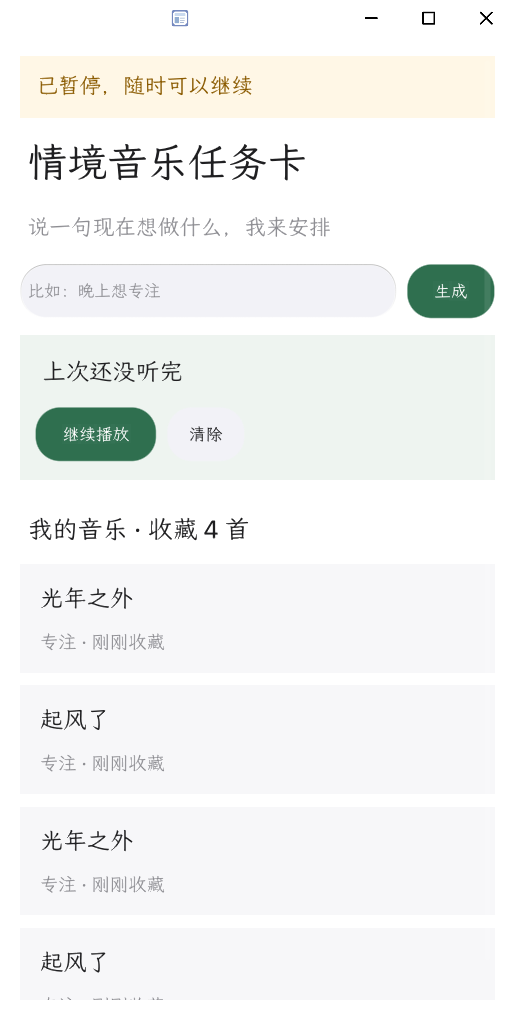
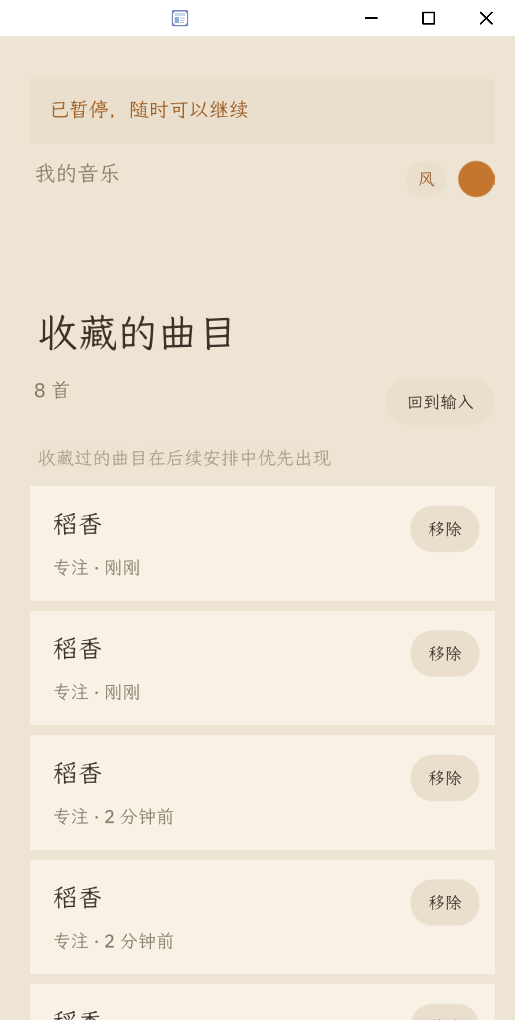
docs: 重写 README 为产品视角，补拍真实应用截图
- README 去掉 emoji 小标题，改为从产品角度叙述（这是什么 / 主要功能 / 怎么用）
- 新增演示视频、应用截图、本地运行三节，快速开始精简为最短路径
- 应用截图换成 card-host 真实渲染：输入页、任务卡、播放中（收藏两首后）、我的音乐
- 修 03-playing.png 与 01-main.png 重复、03-mine.png 为旧版 UI 的问题
- 重新 octo check 刷新 manifest 的 bundle_blake3（PASSED）

diff --git a/README.md b/README.md
@@ -1,165 +1,171 @@
 # 情境音乐任务卡（music.cue）
 
-跑在 OctoSense 上的小程序（OctoScript / Splash）。你说一句当下情境的话，它生成一张播放任务卡：
-情境 + 时长 + 渐入/稳定/收尾三段 + 每段一句理由。你点头后卡片全程跟随。
+说一句现在想做什么，得到一张分好段、写好理由的播放任务卡。
 
-**我们不做播放器，只做播放任务的组织与状态跟进。**
+运行在 [OctoSense](https://github.com/OctoSense-org/OctoSense) 上的 OctoScript / Splash 应用，
+为 GoSIM Agentic App 2026 初赛提交而作。
 
----
+## 这是什么
+
+用户打开音乐 App 时，真正在想的通常不是「听哪首歌」，而是「接下来这一段时间我打算怎么过」。
+现有产品把选什么、听多久这件事原样丢回给用户，于是大多数时候我们只是随手点开一个歌单。
+
+music.cue 把这个顺序倒过来：先说一句现在的状态，比如「晚上想专注」「早上通勤 45 分钟」，
+由它排出一张播放任务卡——场景、总时长、渐入／稳定／收尾三段，以及每一段为什么这么排。
+确认之后卡片开始计时，播放途中可以收藏、跳过、改时长，也可以存档下次接着用。
+
+产品上刻意守住了三条边界：
+
+- **不播放音乐。** 进度按三段时长本地模拟推进，界面上有明确标注。
+- **不接入版权曲库。** 曲库是内置的示例数据，用于演示卡片结构，不存储、不传输任何音频内容。
+- **不是四个 AI 进程。** 宿主当前没有 shell 真正运行多 Agent，`model.complete` 在 card-host
+  返回 no service。感知、决策、编排、守护是四个纯代码模块，由状态机按序调度，
+  决策走本地规则表；AI 分支已预留，默认关闭。
+
+## 主要功能
+
+- **情境识别**：专注、通勤、睡前、健身、休息五类场景，中英文关键词命中。时长从原话里取
+  （第一个 ≥ 5 的数字）。原话中的时间语义优先于系统时间——说「早上通勤」，夜里测也是早上桶。
+- **三段任务卡**：渐入／稳定／收尾，每段给出理由与来源曲目。时长闭合校验不通过会重排一次，
+  仍不通过则降级为单段简化卡。
+- **只问一次**：场景没识别出来时问一次「现在在做什么」，也可以点「你帮我决定」直接兜底为专注。
+  时间取系统值、环境默认室内，都不主动追问。
+- **番茄钟**：专注场景默认 25 分钟一轮，稳定段按轮切分，每 4 轮结束提示长休，可切 25 / 45 / 60。
+- **播放中微调**：改时长、切番茄档位、「换一批」重抽三段曲目（段落结构与时长保留）。
+- **偏好回流**：收藏 +1.0／次，跳过 −1.5／次；同一首跳过 2 次进黑名单；收藏过的曲目后续优先出现。
+- **续播**：中途退出会保存进度快照，下次打开提示续播，播完自动清除。
+- **卡堆**：最多存 8 张卡片，超出归档最旧的一张，可从卡堆里直接重启任意一张。
+- **我的音乐**：查看收藏过的曲目与收藏时间，可逐条移除。
+- **本周概览**：近 7 天时长柱状图、专注小时数、通勤次数、收藏数。
+- **三套视觉**：暗色沉浸／浅色温柔／编辑部排版，选择写入偏好；暗色下不同场景的氛围色相不同。
+- **全部本地**：收藏、跳过、播放历史、续播快照、事件日志写入应用私有空间，配额 16 MiB；
+  只申请 `storage` 能力，不联网、不登录（登录归宿主）。
+
+## 演示视频
+
+尚未录制。录制后命名为 `demo.mp4` 放在仓库根目录，本节用相对路径引用。
+
+## 应用截图
+
+以下均为 Windows card-host 的真实渲染截图。
+
+| 输入页 | 任务卡 |
+| --- | --- |
+| <img src="bundle/screenshots/04-idle.png" alt="输入页：一句话输入与场景快选" width="300"> | <img src="bundle/screenshots/02-confirm.png" alt="任务卡：专注 90 分钟，三段结构与每段理由" width="300"> |
+
+| 播放中 | 我的音乐 |
+| --- | --- |
+| <img src="bundle/screenshots/03-playing.png" alt="播放中：当前段落、番茄轮次与进度" width="300"> | <img src="bundle/screenshots/03-mine.png" alt="我的音乐：收藏的曲目与收藏时间，可移除" width="300"> |
 
 ## 快速开始
 
-前置：已装好 [OctoSense App Hub](https://github.com/OctoSense-org/OctoSense-App-Hub)
-并通过 `octo doctor` 校验（本项目在 Windows / card-host 环境实测通过）。
+需要 Python 3 和构建好的 OctoSense App Hub 宿主工具。三步跑起来，完整说明见[本地运行](#本地运行)：
 
-```bash
-export OCTO_HUB="<App-Hub>/target/release/hub.exe"          # Windows 上是 hub.exe
-export OCTO_CARD_HOST="<App-Hub>/target/release/card-host.exe"
-export OCTOSENSE_APP_HUB="<App-Hub>"
-
-cd <OctoScript-App-Design-Flow>
-python tools/octo doctor                              # 6/6 全绿
+```sh
+cd <workspace>/OctoScript-App-Design-Flow
+python tools/octo doctor                              # 环境自检，应 6/6 全绿
 python tools/octo run <app>/bundle --port 8141 --hidden --detach
-python tools/octo shot 8141 <app>/bundle/screenshots/01-main.png
-python tools/octo check <app>/bundle                 # 应为 PASSED
-curl -s 127.0.0.1:8141/quit                          # 停止
+python tools/octo check <app>/bundle                  # 门检，应为 PASSED
 ```
 
-交互端点（用于自动化测试）：
+## 本地运行
+
+**构建宿主工具（只需一次）：**
+
+```sh
+cd <workspace>/OctoSense-App-Hub
+cargo build --release -p octosense-card-host -p octosense-app-hub
+```
+
+**让 `tools/octo` 找到它们。** Windows 上它的 `find_binary()` 只找裸名、不试 `.exe`，两种方式任选：
+
+```sh
+# 方式一：显式环境变量
+export OCTO_HUB="<App-Hub>/target/release/hub.exe"
+export OCTO_CARD_HOST="<App-Hub>/target/release/card-host.exe"
+export OCTOSENSE_APP_HUB="<App-Hub>"
+```
+
+```sh
+# 方式二：把 release 目录加进 PATH（shutil.which 会自动试 PATHEXT）
+export PATH="$PATH:<App-Hub>/target/release"
+```
+
+**启动、截图、停止：**
+
+```sh
+python tools/octo run <app>/bundle --port 8141 --hidden --detach   # 启动（无头，后台）
+python tools/octo shot 8141 <app>/bundle/screenshots/01-main.png   # 截图
+curl -s 127.0.0.1:8141/quit                                        # 停止
+```
+
+自动化测试走宿主的远程桥接：
 
 | 端点 | 用途 |
-|---|---|
+| --- | --- |
 | `GET /snap` | 组件树 JSON（根节点 `ty="Splash"` 需过滤） |
 | `GET /click?x=&y=&wait=` | 点击 |
 | `GET /t?t=<urlencoded>` | 输入文本 |
 | `GET /quit` | 停止 |
 
-> Windows 注意：`tools/octo` 的 `find_binary()` 只找裸名、不试 `.exe`。
-> 把 `target/release` 加进用户 PATH 可绕过（`shutil.which` 会试 PATHEXT）。
+**Windows 开发提效：**
 
----
+- `dev.bat` — 一键环境：`dev.bat doctor` / `run` / `shot` / `check` / `quit`，
+  或直接 `dev.bat` 进入已配好环境变量的 shell
+- `open.sh` — 以 `1280x800` 打开可见窗口（设计主档宽度；`octo run` 默认 412 宽会裁掉内容列），
+  使用独立数据目录 `.demo-state`，避免测试写入污染演示状态
+
+运行产物在 `.local-state/`（应用私有空间、偏好、续播快照与事件日志），已被 Git 忽略。
 
 ## 怎么用
 
-1. 在输入框说一句话，例如「晚上想专注」「早上通勤 45 分钟」「听点歌」
-2. 场景词没识别到时，它会问一次「现在在做什么？」——**只问一次，不连环追问**
-3. 拿到卡片后点「开始播放」
-4. 播放中可以「跳过」或「收藏」，每次都会**立刻换一首同风格的**
-5. 随时点「结束」，下次打开会提示续播
-6. 输入页点「我的音乐」查看收藏过的曲目与收藏时间
+输入一句话即可：
 
-支持的场景：**专注**（默认 90 分钟）、**通勤**（默认 30 分钟）。
-显式说时长会覆盖默认值（例：「专注 45 分钟」）。超过 5 的数字才会被识别为时长。
-
----
-
-## 它到底做了什么
-
-四个专职模块，由一个状态机按顺序调度（平台当前没有 shell 真正运行多 Agent，
-`model.complete` 在 card-host 返回 no service，所以不是四个独立 AI 进程）：
-
-| 模块 | 性质 | 输入 → 输出 |
-|---|---|---|
-| 感知 perceive | 纯代码，不调 AI | 原话 + 时间 + 历史 → 情境包（四类关键词） |
-| 决策 decide | 唯一调 AI 的口子（默认关闭） | 情境包 → 意图标签（情境/情绪/时长/置信度/理由） |
-| 编排 orchestrate | 纯代码，本地映射表 | 意图标签 → 三段任务卡 + 每段理由 + 选曲 |
-| 守护 guardian | 纯本地，贯穿全程 | 异常信号 → 兜底动作 + 界面文案 |
-
-**两条闭环**：
-
-- 模糊回环：只追问一次；时间取系统值，天气默认室内，状态默认中性，都不主动问
-- 偏好回流：跳过/收藏写入本地偏好 → 下次选曲时加权（收藏 +1.0/次，跳过 -1.5/次，
-  同一首跳过 2 次进黑名单）
-
----
-
-## 能力边界（请先读这一段）
-
-- **不播放音频。** 进度条是本地按三段时长**模拟推进**的，卡片底部固定标注这一点。
-- **不接入版权曲库。** 曲库是编译期常量，内置 24 个**真实歌曲名**仅用于演示任务卡结构，
-  不存储、不传输任何音频内容。
-- **完全本地。** 只申请 `storage` 能力，不申请网络权限，不接第三方服务。
-- **不登录。** 登录归宿主。
-
----
-
-## 隐私政策
-
-**本应用不收集、上传或共享任何用户数据。**
-
-所有偏好设置（包括收藏记录、跳过记录、播放历史）仅保存在设备本地的应用私有空间内，
-不存在任何形式的网络传输。
-
-本应用未申请网络权限，不接入任何第三方服务，不含第三方统计与广告 SDK。
-
-用户可通过卸载应用彻底删除全部本地数据。
-
----
-
-## 数据存储
-
-| 文件 | 路径 | 内容 |
-|---|---|---|
-| 偏好 | `accounts/device/preference.json` | 收藏（含时间戳）、跳过、播放历史 |
-| 待续播 | `accounts/device/pending.json` | 播放中进度快照，播完即删 |
-| 事件日志 | `accounts/device/events.jsonl` | skip / fav / finish / quit 逐行追加 |
-
-`preference.json` 结构（v2）：
-
-```json
-{
-  "version": 2,
-  "tags": {
-    "scenes": ["focus", "commute"],
-    "favTracks": [{ "ref": "f-r1", "ts": 1696400000 }],
-    "skippedTracks": []
-  },
-  "history": [{ "ts": 1696400000, "scene": "focus", "durationMin": 90, "cardId": "c1696400000" }]
-}
+```
+晚上想专注
+早上通勤 45 分钟
+睡前听点安静的
+健身
 ```
 
-容量上限：收藏 200、跳过 200、历史 50。超量在启动时自动裁剪（保留最新的）。
+流程：
 
-v1 格式（`favTracks` 为字符串数组）会在启动时自动迁移为 v2，行为幂等。
+1. 说一句话，或直接点选场景（专注／通勤／睡前／健身）
+2. 场景没识别出来时会问一次「现在在做什么」——只问一次，不连环追问
+3. 确认卡片：场景、时长、三段结构与每段理由都摊开显示，点「开始播放」
+4. 播放中可以收藏或跳过，每次都会立刻换一首同风格的
+5. 需要调整就改时长、切番茄档位或「换一批」
+6. 随时「结束」，下次打开提示续播；输入页可进「我的音乐」「卡堆」「统计」
 
----
+## 目录结构
 
-## 测试
-
-```bash
-export OCTO_HUB=... OCTO_CARD_HOST=... OCTOSENSE_APP_HUB=...
-cd apps
-python test_all.py        # 115 条断言，约 70 秒
+```
+music-cue/
+├── bundle/                  # 提交给 App Hub 的应用包
+│   ├── main.splash          # 全部应用逻辑（状态机 + 四个模块 + 界面）
+│   ├── manifest.json        # id / 版本 / 能力声明
+│   ├── listing.json         # 上架信息（名称、简介、截图、许可）
+│   ├── assets/icon.svg
+│   └── screenshots/         # README 与上架用的真实渲染截图
+├── dev.bat                  # Windows 一键：doctor / run / shot / check / quit
+├── open.sh                  # 打开可见窗口（1280x800，独立演示数据目录）
+├── AGENTS.md  CLAUDE.md  GEMINI.md
+└── .local-state/            # 本地运行产物，已被 Git 忽略
 ```
 
-单阶段：
+测试脚本（`test_all.py`、`test_stage*.py` 等）位于上层 `apps/` 目录，未纳入本仓库。
+运行一次约 115 条断言、70 秒，全部基于真实运行：读 `/snap` 断言界面文本与 `preference.json`
+实际内容，并检查运行日志中无 `[E]` 错误。
 
-```bash
-python test_stage0.py     # 基线确认
-python test_stage1.py     # 中文可用性 + 界面中文化
-python test_stage2.py     # 演示观感（曲名 / 进度条 / 免责标注）
-python test_stage3.py     # 偏好数据 v2（结构 / 权重 / 迁移 / 脏数据 / 裁剪）
-python test_stage4.py     # 我的音乐（列表 / 排序 / 失效 ref / 渲染上限）
-python shots.py           # 重新截商店图
-```
+## 技术栈
 
-测试全部基于真实运行：通过 `/snap` 读组件树、`/click` 驱动交互、断言界面文本与
-`preference.json` 的实际内容，并检查运行日志中无 `[E]` 错误。
+- **OctoScript / Splash** — 应用实现语言，单文件 `main.splash`
+- **OctoSense App Hub** — 宿主运行时（`hub` 打包校验、`card-host` 运行与远程桥接）
+- **Makepad** — 底层 UI 渲染
+- **Rust** — 构建宿主工具
+- **Python 3** — `tools/octo` 工具链与测试脚本
+- **应用私有 fs** — 唯一申请的能力 `storage`，配额 16 MiB
 
----
+## 许可证
 
-## 已知限制
-
-| 限制 | 说明 |
-|---|---|
-| 单次会话时长 | 极长会话（如 4 小时以上）会逼近 20M 指令预算（20M/会话）。计时器间隔 5 秒是为规避这一点；如需支持更长会话，需再降频 |
-| 「4 小时」解析不出来 | 时长提取只取第一个数字且要求 ≥ 5，「4 小时」会回落到默认 90 分钟；「240 分钟」可用 |
-| 曲名 | 24 首真实歌名硬编码在 `main.splash` 的 `DEMO` 常量里；改曲库只需改 `title`，`ref` 不要动（打分与黑名单依赖它） |
-| 场景粒度 | 初赛只做 focus / commute 两场景 |
-| 视觉风格 | 目前单一配色。三套风格（暗色沉浸 / 浅色温柔 / 编辑部排版）留待后续 |
-
----
-
-## 发布者
-
-纯爱云烟口香糖三人音乐公司
+Apache-2.0（在 `bundle/listing.json` 中声明；仓库暂未附带独立的 LICENSE 文件）。
